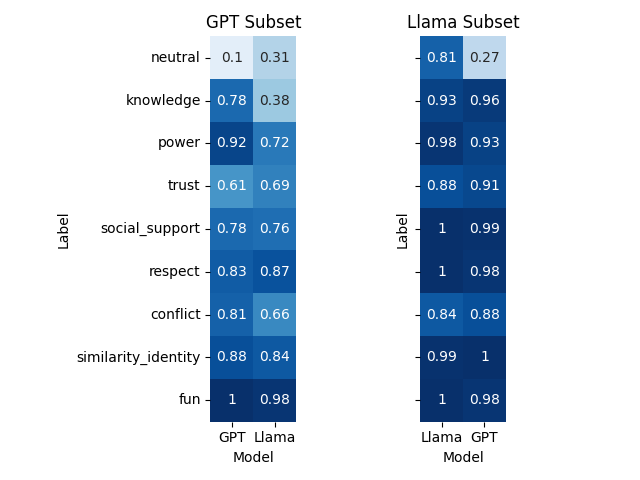
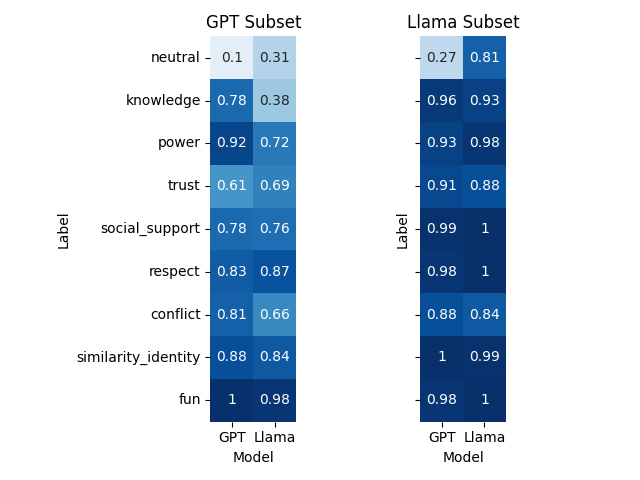
bulk

diff --git a/src/worker_vs_gpt/evaluation/evaluate_performance.py b/src/worker_vs_gpt/evaluation/evaluate_performance.py
@@ -239,7 +239,7 @@ llama_gpt = pd.read_csv(
 llama_gpt = llama_gpt.rename(columns={"tp": "GPT", "src label": "Label"})
 llama_gpt.drop(columns=["aug label"], inplace=True)
 
-df = pd.merge(llama_llama, llama_gpt, on="Label")
+df = pd.merge(llama_gpt, llama_llama, on="Label")
 df.set_index("Label", inplace=True)
 
 # plot the heatmap
@@ -261,13 +261,14 @@ plt.tight_layout()
 
 plt.savefig("src/worker_vs_gpt/evaluation/assets/tp.png")
 
-import matplotlib.gridspec as gridspec
 
 #### TN ####
 import matplotlib.pyplot as plt
 import pandas as pd
+import seaborn as sns
 
 
+# Read the data
 gpt_subset_llama = pd.read_csv(
     "src/worker_vs_gpt/evaluation/assets/gpt-subset/llama.csv", index_col=0
 )
@@ -281,93 +282,76 @@ llama_subset_llama = pd.read_csv(
     "src/worker_vs_gpt/evaluation/assets/llama-subset/llama.csv", index_col=0
 )
 
-# For all the dataframes, set the diagonal to empty
+# Set diagonal to empty for all dataframes
 for df in [gpt_subset_llama, gpt_subset_gpt, llama_subset_gpt, llama_subset_llama]:
     for label in df.index:
         df.loc[label, label] = None
 
 
-# Create the main figure and two main subplots
-fig = plt.figure(figsize=(15, 10))
-main_gs = gridspec.GridSpec(
-    2, 1, figure=fig, wspace=0.3
-)  # Increased wspace for more space between subplots
+# Function to create subplots for a given subset
+def create_subplots(data1, data2, title1, title2, overall_title, filepath):
+    fig, (ax1, ax2) = plt.subplots(1, 2, figsize=(10, 6))
+
+    # overall title
+    fig.suptitle(overall_title)
+
+    sns.heatmap(
+        data1,
+        annot=True,
+        cmap="Blues",
+        cbar=False,
+        square=True,
+        vmin=0,
+        vmax=1,
+        annot_kws={"size": 8},
+        ax=ax1,
+    )
+    ax1.set_title(title1)
+    ax1.set_xticklabels(ax1.get_xticklabels(), rotation=45, ha="right", fontsize=8)
+    ax1.set_yticklabels(ax1.get_yticklabels(), fontsize=8)
+
+    sns.heatmap(
+        data2,
+        annot=True,
+        cmap="Blues",
+        cbar=False,
+        square=True,
+        vmin=0,
+        vmax=1,
+        annot_kws={"size": 8},
+        ax=ax2,
+    )
+    ax2.set_title(title2)
+    ax2.set_xticklabels(ax2.get_xticklabels(), rotation=45, ha="right", fontsize=8)
+    ax2.set_yticklabels(ax2.get_yticklabels(), fontsize=8)
+
+    # X-label for both subplots (same for both)
+
+    ax1.set_xlabel("Input Label", fontsize=10)
+    ax2.set_xlabel("Input Label", fontsize=10)
+
+    # Y-label for both subplots
+    ax1.set_ylabel("One-shot Label", fontsize=10)
+    ax2.set_ylabel("One-shot Label", fontsize=10)
+
+    plt.tight_layout()
+    plt.savefig(filepath)
 
 
-gpt_subset_gs = gridspec.GridSpecFromSubplotSpec(
-    1, 2, subplot_spec=main_gs[0], wspace=0.3, hspace=0.3
-)
-
-llama_subset_gs = gridspec.GridSpecFromSubplotSpec(
-    1, 2, subplot_spec=main_gs[1], wspace=0.3, hspace=0.3
-)
-
-# Create subplots within the main subplots
-ax1 = fig.add_subplot(gpt_subset_gs[0])
-ax2 = fig.add_subplot(gpt_subset_gs[1])
-ax3 = fig.add_subplot(llama_subset_gs[0])
-ax4 = fig.add_subplot(llama_subset_gs[1])
-
-# Plot your data here
-sns.heatmap(
+# Create and save grouped subplots
+create_subplots(
     gpt_subset_llama,
-    annot=True,
-    cmap="Blues",
-    cbar=False,
-    square=True,
-    vmin=0,
-    vmax=1,
-    ax=ax1,
-    annot_kws={"size": 8},  # Smaller font size for numbers
-)
-
-sns.heatmap(
     gpt_subset_gpt,
-    annot=True,
-    cmap="Blues",
-    cbar=False,
-    square=True,
-    vmin=0,
-    vmax=1,
-    ax=ax2,
-    annot_kws={"size": 8},  # Smaller font size for numbers
+    "Llama",
+    "GPT",
+    "GPT subset - True Negative",
+    "src/worker_vs_gpt/evaluation/assets/gpt_subset_eval.png",
 )
-
-sns.heatmap(
-    llama_subset_gpt,
-    annot=True,
-    cmap="Blues",
-    cbar=False,
-    square=True,
-    vmin=0,
-    vmax=1,
-    ax=ax4,
-    annot_kws={"size": 8},  # Smaller font size for numbers
-)
-
-sns.heatmap(
+create_subplots(
     llama_subset_llama,
-    annot=True,
-    cmap="Blues",
-    cbar=False,
-    square=True,
-    vmin=0,
-    vmax=1,
-    ax=ax3,
-    annot_kws={"size": 8},  # Smaller font size for numbers
+    llama_subset_gpt,
+    "Llama",
+    "GPT",
+    "Llama subset - True Negative",
+    "src/worker_vs_gpt/evaluation/assets/llama_subset_eval.png",
 )
-
-# Set the titles
-ax1.set_title("GPT subset - Llama")
-ax2.set_title("GPT subset - GPT")
-ax3.set_title("Llama subset - Llama")
-ax4.set_title("Llama subset - GPT")
-
-# angle the x-ticks and small the font size
-for a in [ax1, ax2, ax3, ax4]:
-    a.set_xticklabels(a.get_xticklabels(), rotation=45, ha="right")
-    a.tick_params(axis="both", which="major", labelsize=8)
-
-# make the plot as tight as possible
-
-plt.savefig("src/worker_vs_gpt/evaluation/assets/tn.png")
